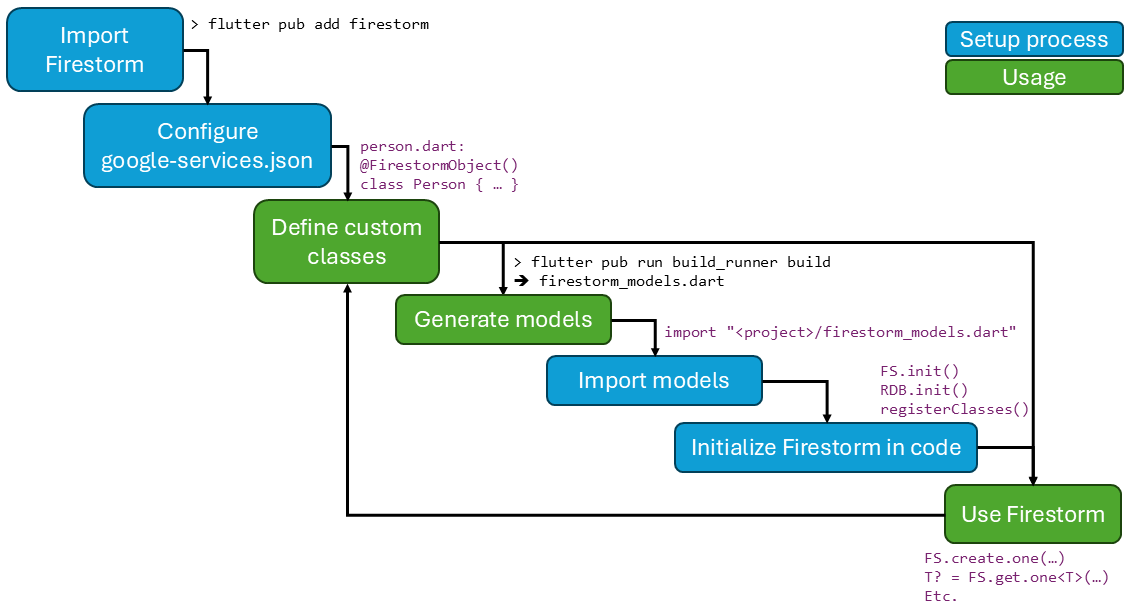
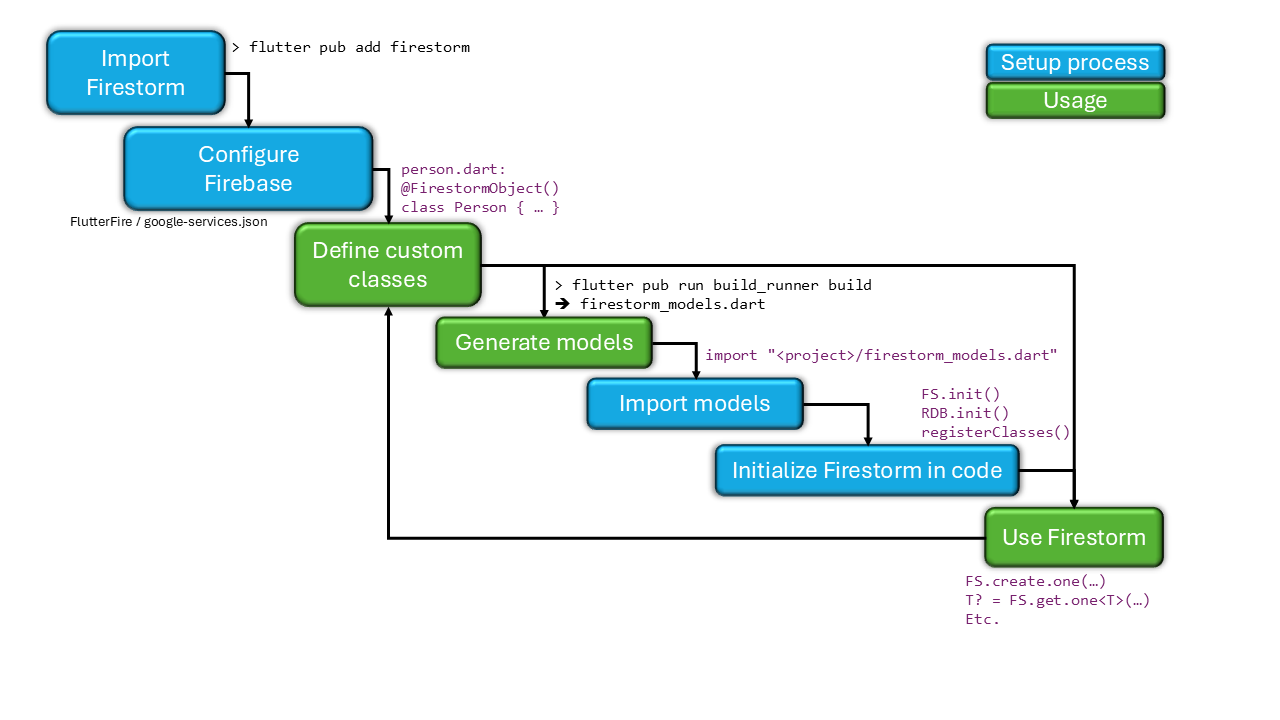
Bump version to 1.0.0 and improve builder logging
- Updated version to `1.0.0` in `pubspec.yaml`, `README.md`, and `CHANGELOG.md`.
- Added support for the `@user()` annotation to skip specific fields during code generation.
- Replaced the custom `Firestorm.log` with the standard `build_step` logging in `firestorm_builder.dart`.
- Enhanced builder feedback with descriptive troubleshooting instructions when no valid `@user` classes are detected.
- Improved handling of private fields to support better encapsulation in custom data classes.
- Updated documentation and simplified the "Known issues" section in `README.md`.
- Commented out `weird_data.dart` in the test application.

Changed region(s): [[0.0, 0.0, 1.0, 0.9656], [0.7414, 0.0311, 1.0, 0.1869], [0.8032, 0.9656, 0.8341, 0.9967]]

diff --git a/flutter_test_app/lib/weird_data.dart b/flutter_test_app/lib/weird_data.dart
@@ -1,19 +1,19 @@
-import 'package:firestorm/annotations/firestorm_object.dart';
-import 'package:flutter_test_app/custom_color.dart';
-import 'package:flutter_test_app/person.dart';
-
-@FirestormObject()
-class WeirdData extends Person {
-  String data;
-  String? otherData;
-  static int staticData = 42;
-  int _privateData = 3;
-  Map<String, int> aMap = {};
-  List<String> aList = [];
-  CustomColor color;
-
-  int get privateData => _privateData;
-  set privateData(int value) => _privateData = value;
-
-  WeirdData(this.data, this.color, {this.otherData = 'default'}) : super('id', 'first', 'last', 0, 0.0, false, []);
-}
+// import 'package:firestorm/annotations/firestorm_object.dart';
+// import 'package:flutter_test_app/custom_color.dart';
+// import 'package:flutter_test_app/person.dart';
+//
+// @FirestormObject()
+// class WeirdData extends Person {
+//   String data;
+//   String? otherData;
+//   static int staticData = 42;
+//   int _privateData = 3;
+//   Map<String, int> aMap = {};
+//   List<String> aList = [];
+//   CustomColor color;
+//
+//   int get privateData => _privateData;
+//   set privateData(int value) => _privateData = value;
+//
+//   WeirdData(this.data, this.color, {this.otherData = 'default'}) : super('id', 'first', 'last', 0, 0.0, false, []);
+// }

diff --git a/firestorm_flutter/lib/gen/firestorm_builder.dart b/firestorm_flutter/lib/gen/firestorm_builder.dart
@@ -23,7 +23,7 @@ class FirestormBuilder implements Builder {
   @override
   Future<void> build(BuildStep buildStep) async {
 
-    Firestorm.log.i("Starting FirestormBuilder for ${buildStep.inputId}...");
+    log.info("Starting Firestorm Builder for ${buildStep.inputId}...");
 
     //Buffers:
     final fileBuffer = StringBuffer();
@@ -77,12 +77,16 @@ class FirestormBuilder implements Builder {
     }
 
     if (validClassHolder.getAllValidClasses().isEmpty) {
-        Firestorm.log.i("""No valid classes found for Firestorm:
+        log.info("No valid classes found for Firestorm:");
+        print("""
+            INSTRUCTIONS
+            --------------------------------------------------------------------
             1. Use the @FirestormObject() annotation in your data classes.
             2. Ensure your data classes have a public constructor.
             3. Ensure your data classes have an 'id' field of type String.
             4. Ensure your data classes only use supported types for Firestore or Realtime Database.
             5. Ensure that any private fields have both a getter and setter method.
+            
             More information: https://github.com/RayLabz/Firestorm/blob/master/firestorm_flutter/defining-classes.md""");
         return;
     }
@@ -123,5 +127,8 @@ class FirestormBuilder implements Builder {
 
     final outputId = AssetId(buildStep.inputId.package, 'lib/generated/firestorm_models.dart');
     await buildStep.writeAsString(outputId, formattedOutput);
+
+    log.info("Firestorm Builder completed for ${buildStep.inputId}. Generated file: $outputId.");
+
   }
 }

diff --git a/flutter_test_app/lib/person.dart b/flutter_test_app/lib/person.dart
@@ -1,3 +1,4 @@
+import 'package:firestorm/annotations/exclude.dart';
 import 'package:firestorm/annotations/firestorm_object.dart';
 
 @FirestormObject()
@@ -9,7 +10,9 @@ class Person {
   int age;
   double height;
   bool isEmployed;
-  List<String> friends;
+
+  @Exclude()
+  List<String>? friends;
 
   Person(this.id, this.firstname, this.lastname, this.age, this.height,
       this.isEmployed, this.friends);

diff --git a/firestorm_flutter/README.md b/firestorm_flutter/README.md
@@ -82,7 +82,7 @@ By adding it to your `pubspec.yaml` file:
 
 ```yaml
 dependencies:
-  firestorm: ^0.8.7
+  firestorm: ^1.0.0
 ```
 
 ## Getting started with Firestorm for Flutter
@@ -207,16 +207,9 @@ Firestorm is designed to be used with Dart and Flutter, and is built on top of t
 
 You do not need to add these packages manually, as Firestorm will automatically add them as dependencies when you install it.
 
-### Known issues
+### Known issues and feature requests
 
-No known issues.
-
-> [!CAUTION]
-> Firestorm is still an experimental tool and may contain bugs or issues. Please report any issues on our [GitHub repository](https://github.com/RayLabz/Firestorm/issues).
-
-### Bug reports and feature requests
-
-If you find a bug or have a feature request, [please report it on our GitHub repository](https://github.com/RayLabz/Firestorm/issues).
+No known issues. If you find a bug or have a feature request, [please report it on our GitHub repository](https://github.com/RayLabz/Firestorm/issues).
 
 View the [change log](CHANGELOG.md) for the latest updates and changes to Firestorm.
 

diff --git a/firestorm_flutter/CHANGELOG.md b/firestorm_flutter/CHANGELOG.md
@@ -1,9 +1,10 @@
-## v0.8.7
+## v1.0.0
 Release date: 03/06/2026
-- Avoiding/ignoring private fields explicitly while still allowing for generation if class is valid.
-- Better logging
+- Support for private fields in custom data classes, allowing for better encapsulation and data hiding.
+- Better logging and messages.
+- Improvements in code generation.
 - Unit tests.
-
+- Removed `logger` dependency and replaced it with `builder` log functionality.
 
 ## v0.8.6
 Release date: 26/05/2026